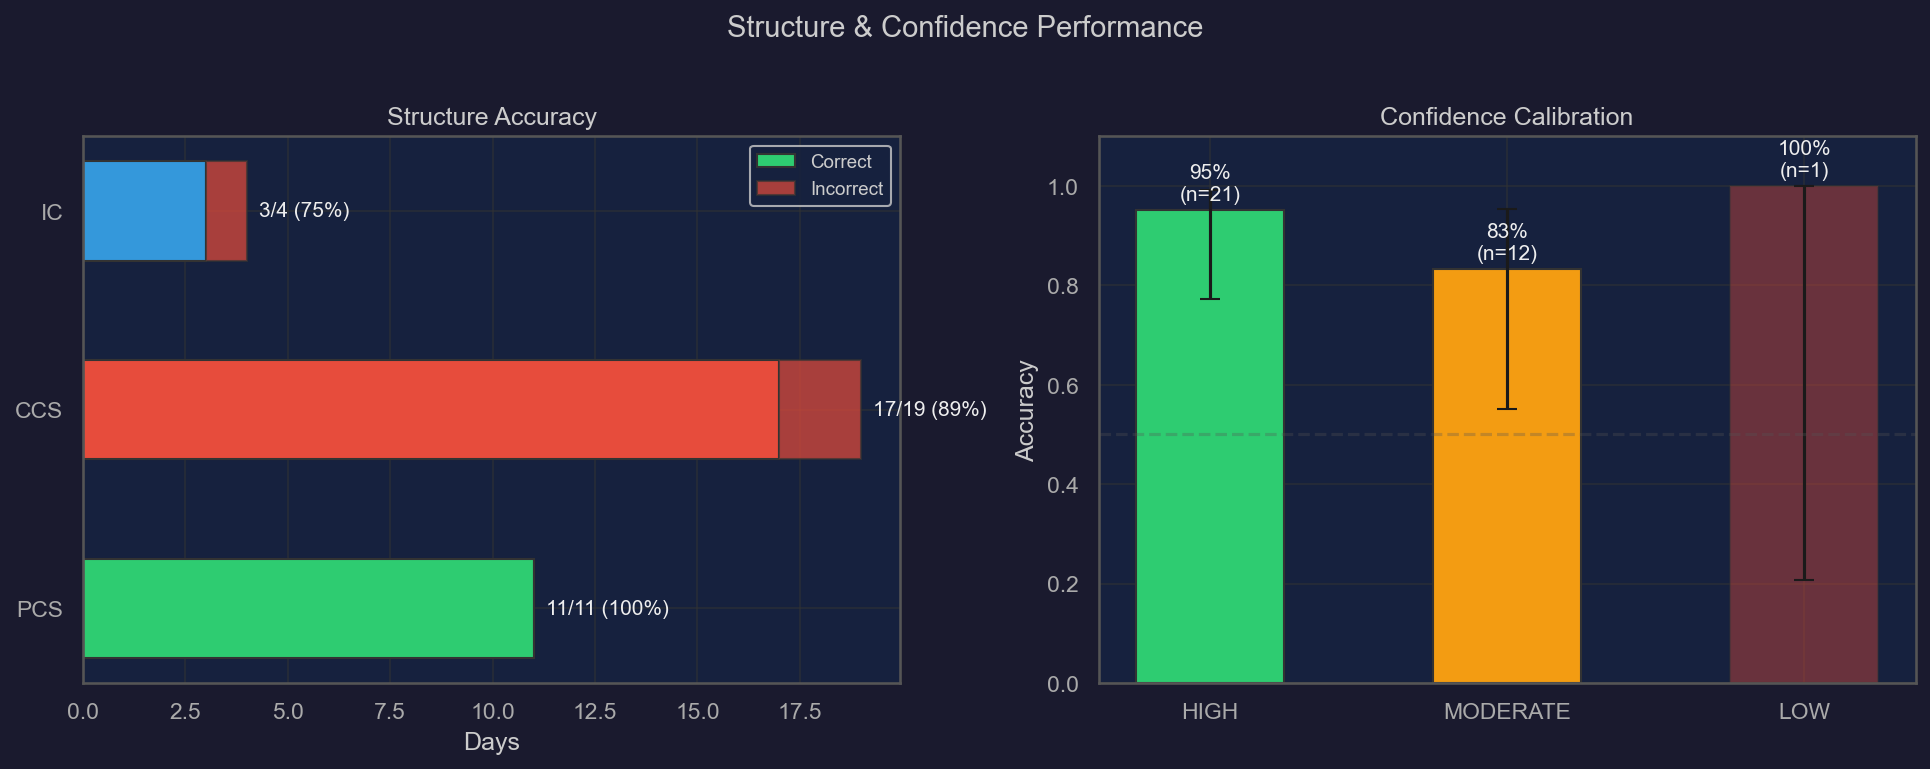
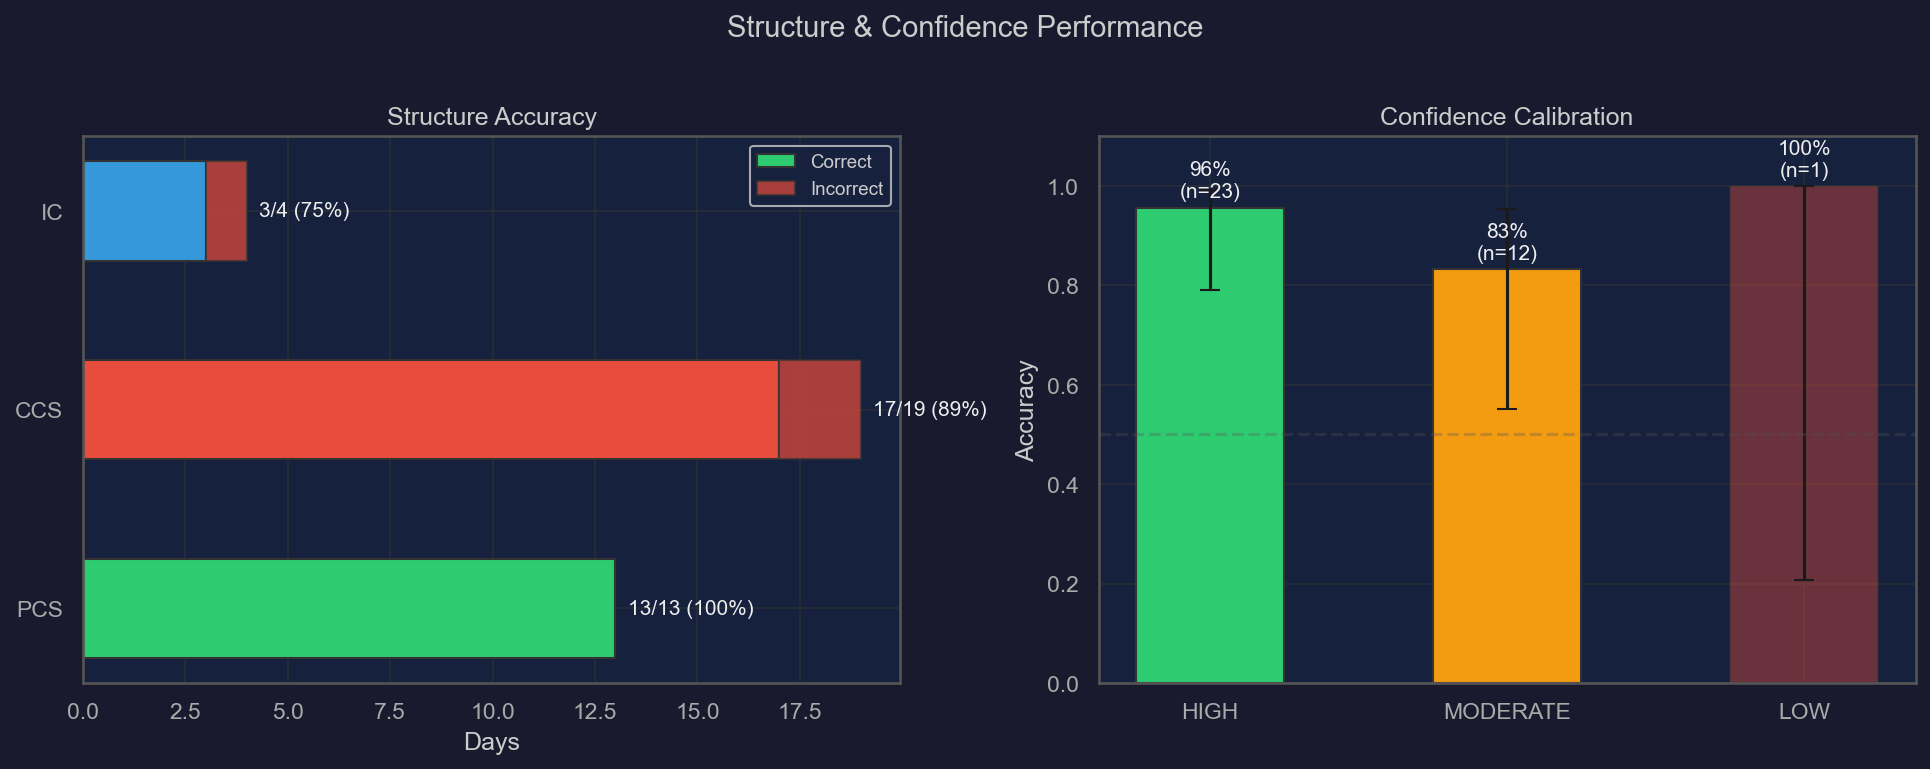
fix(features): prefer snapshots with spx_open for feature engineering
build-features.ts was taking the earliest market_snapshot of the day,
which since Mar 16 has been pre-market or early entries where spx_open
is NaN. This cascaded to null dp_support_resistance_ratio, max_pain_dist,
and dp_concentration. Now sorts by (spx_open IS NULL) first so snapshots
with a valid SPX open price are preferred. Also commits updated ML plots
from pipeline run.

Changed region(s): [[0.2487, 0.7178, 0.4041, 0.8739], [0.5907, 0.2185, 0.6528, 0.2809]]

diff --git a/api/cron/build-features.ts b/api/cron/build-features.ts
@@ -147,7 +147,10 @@ async function buildFeaturesForDate(
   const sql = getDb();
   const features: FeatureRow = { date: dateStr };
 
-  // 1. Static features from market_snapshots (use earliest entry)
+  // 1. Static features from market_snapshots
+  // Prefer the earliest entry that has spx_open populated (many early/
+  // pre-market snapshots store NaN before cash open). Fall back to the
+  // absolute earliest if no snapshot has spx_open.
   const snapshots = await sql`
     SELECT vix, vix1d, vix9d, vvix, vix1d_vix_ratio, vix_vix9d_ratio,
            regime_zone, cluster_mult, dow_mult_hl, dow_label,
@@ -156,7 +159,8 @@ async function buildFeaturesForDate(
            opening_range_signal, opening_range_pct_consumed, is_event_day
     FROM market_snapshots
     WHERE date = ${dateStr}
-    ORDER BY entry_time ASC
+    ORDER BY (spx_open IS NULL OR spx_open = 'NaN') ASC,
+             entry_time ASC
     LIMIT 1
   `;
 
